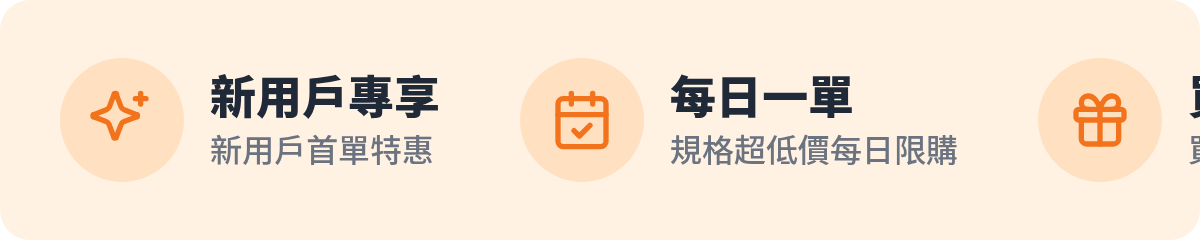
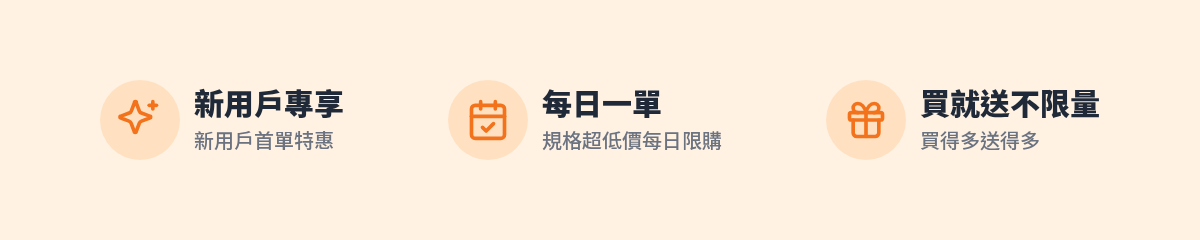
滑動按鈕已移到圖片最左 / 最右邊緣，三組文字完整顯示、不再被按鈕遮住。
Emergent-Commit-Key: 11f5b969ca0cdc8d614e10fca41a414d7cf678046f2469f633fd952bc12d8c5b

diff --git a/frontend/src/pages/ProductDetail.jsx b/frontend/src/pages/ProductDetail.jsx
@@ -30,11 +30,11 @@ function PerksSlider() {
     ref.current?.scrollTo({ left: k * ref.current.clientWidth, behavior: "smooth" });
   };
   return (
-    <div className="mt-4 md:mt-6 relative" data-testid="perks-slider">
-      <button data-testid="perks-prev" onClick={() => go(idx - 1)} className="absolute -left-1 md:-left-3 top-1/2 -translate-y-1/2 z-10 h-7 w-7 rounded-full bg-[#FFE4C8] text-orange-400 flex items-center justify-center shadow-sm"><ChevronLeft className="h-4 w-4" /></button>
-      <button data-testid="perks-next" onClick={() => go(idx + 1)} className="absolute -right-1 md:-right-3 top-1/2 -translate-y-1/2 z-10 h-7 w-7 rounded-full bg-[#FFE4C8] text-orange-400 flex items-center justify-center shadow-sm"><ChevronRight className="h-4 w-4" /></button>
+    <div className="mt-4 md:mt-6 relative -mx-4 md:mx-0" data-testid="perks-slider">
+      <button data-testid="perks-prev" onClick={() => go(idx - 1)} className="absolute left-1 md:-left-3 top-1/2 -translate-y-1/2 z-10 h-7 w-7 rounded-full bg-[#FFE4C8] text-orange-400 flex items-center justify-center shadow-sm"><ChevronLeft className="h-4 w-4" /></button>
+      <button data-testid="perks-next" onClick={() => go(idx + 1)} className="absolute right-1 md:-right-3 top-1/2 -translate-y-1/2 z-10 h-7 w-7 rounded-full bg-[#FFE4C8] text-orange-400 flex items-center justify-center shadow-sm"><ChevronRight className="h-4 w-4" /></button>
       <div ref={ref} onScroll={(e) => setIdx(Math.round(e.currentTarget.scrollLeft / e.currentTarget.clientWidth))}
-        className="mx-5 md:mx-6 flex overflow-x-auto no-scrollbar snap-x snap-mandatory rounded-2xl" data-testid="perks-strip">
+        className="md:mx-6 flex overflow-x-auto no-scrollbar snap-x snap-mandatory md:rounded-2xl" data-testid="perks-strip">
         {PERK_SLIDES.map((src, i) => (
           <img key={src} src={src} alt={`購物權益 ${i + 1}`} data-testid={`perks-slide-${i}`} className="w-full shrink-0 snap-start h-auto block" />
         ))}
@@ -115,8 +115,8 @@ export default function ProductDetail() {
   return (
     <div className="pb-28 md:pb-10" data-testid="product-detail">
       {/* Hero area */}
-      <div className="max-md:mx-4 max-md:mt-3 max-md:rounded-3xl max-md:bg-[#FFEFDF] md:bg-gradient-to-b md:from-[#FFE9D2] md:via-[#FFF3E6] md:to-[#FFF8F1] md:rounded-b-[40px]">
-        <div className="max-w-7xl mx-auto px-3 sm:px-6 lg:px-8 pt-3 md:pt-6 pb-4 md:pb-8">
+      <div className="max-md:rounded-b-[28px] max-md:bg-[#FFEFDF] md:bg-gradient-to-b md:from-[#FFE9D2] md:via-[#FFF3E6] md:to-[#FFF8F1] md:rounded-b-[40px]">
+        <div className="max-w-7xl mx-auto px-4 sm:px-6 lg:px-8 pt-3 md:pt-6 pb-5 md:pb-8">
           <div className="hidden md:flex text-xs text-slate-400 items-center gap-1.5" data-testid="product-breadcrumb">
             <Link to="/" className="hover:text-orange-600">首頁</Link><span>/</span>
             {category && <><Link to={`/category/${category.id}`} className="hover:text-orange-600">{category.name}</Link><span>/</span></>}
@@ -148,8 +148,8 @@ export default function ProductDetail() {
       {/* Purchase card */}
       <div className="max-w-7xl mx-auto px-4 sm:px-6 lg:px-8 mt-4 md:-mt-2">
         <div className="bg-white rounded-3xl shadow-[0_10px_40px_-20px_rgba(232,121,42,0.35)] overflow-hidden">
-          <div className="p-4 pt-6 sm:p-8">
-            <div className="grid grid-cols-2 gap-x-4 gap-y-6 md:flex md:flex-wrap md:gap-3 sm:gap-4">
+          <div className="p-4 pt-7 sm:p-8">
+            <div className="grid grid-cols-2 gap-x-6 gap-y-7 md:flex md:flex-wrap md:gap-3 sm:gap-4">
               {product.specs.map((s, i) => {
                 const sel = s.id === specId;
                 const locked = specLocked(s);
@@ -160,7 +160,7 @@ export default function ProductDetail() {
                     disabled={!s.in_stock}
                     onClick={() => setSpecId(s.id)}
                     title={locked ? "已達限購" : undefined}
-                    className={`relative h-14 md:min-w-[140px] px-2 md:px-6 rounded-xl text-sm font-medium transition-all leading-tight ${
+                    className={`relative h-[72px] md:h-14 md:min-w-[140px] px-2 md:px-6 rounded-xl text-[15px] md:text-sm font-medium transition-all leading-tight ${
                       sel ? "border-2 border-orange-400 bg-orange-50/60 md:bg-orange-50 text-orange-600" : "border border-transparent bg-slate-100/80 md:bg-slate-100 text-slate-700 hover:bg-orange-50"
                     } ${!s.in_stock ? "opacity-40 cursor-not-allowed" : ""} ${locked ? "opacity-50" : ""}`}
                   >
